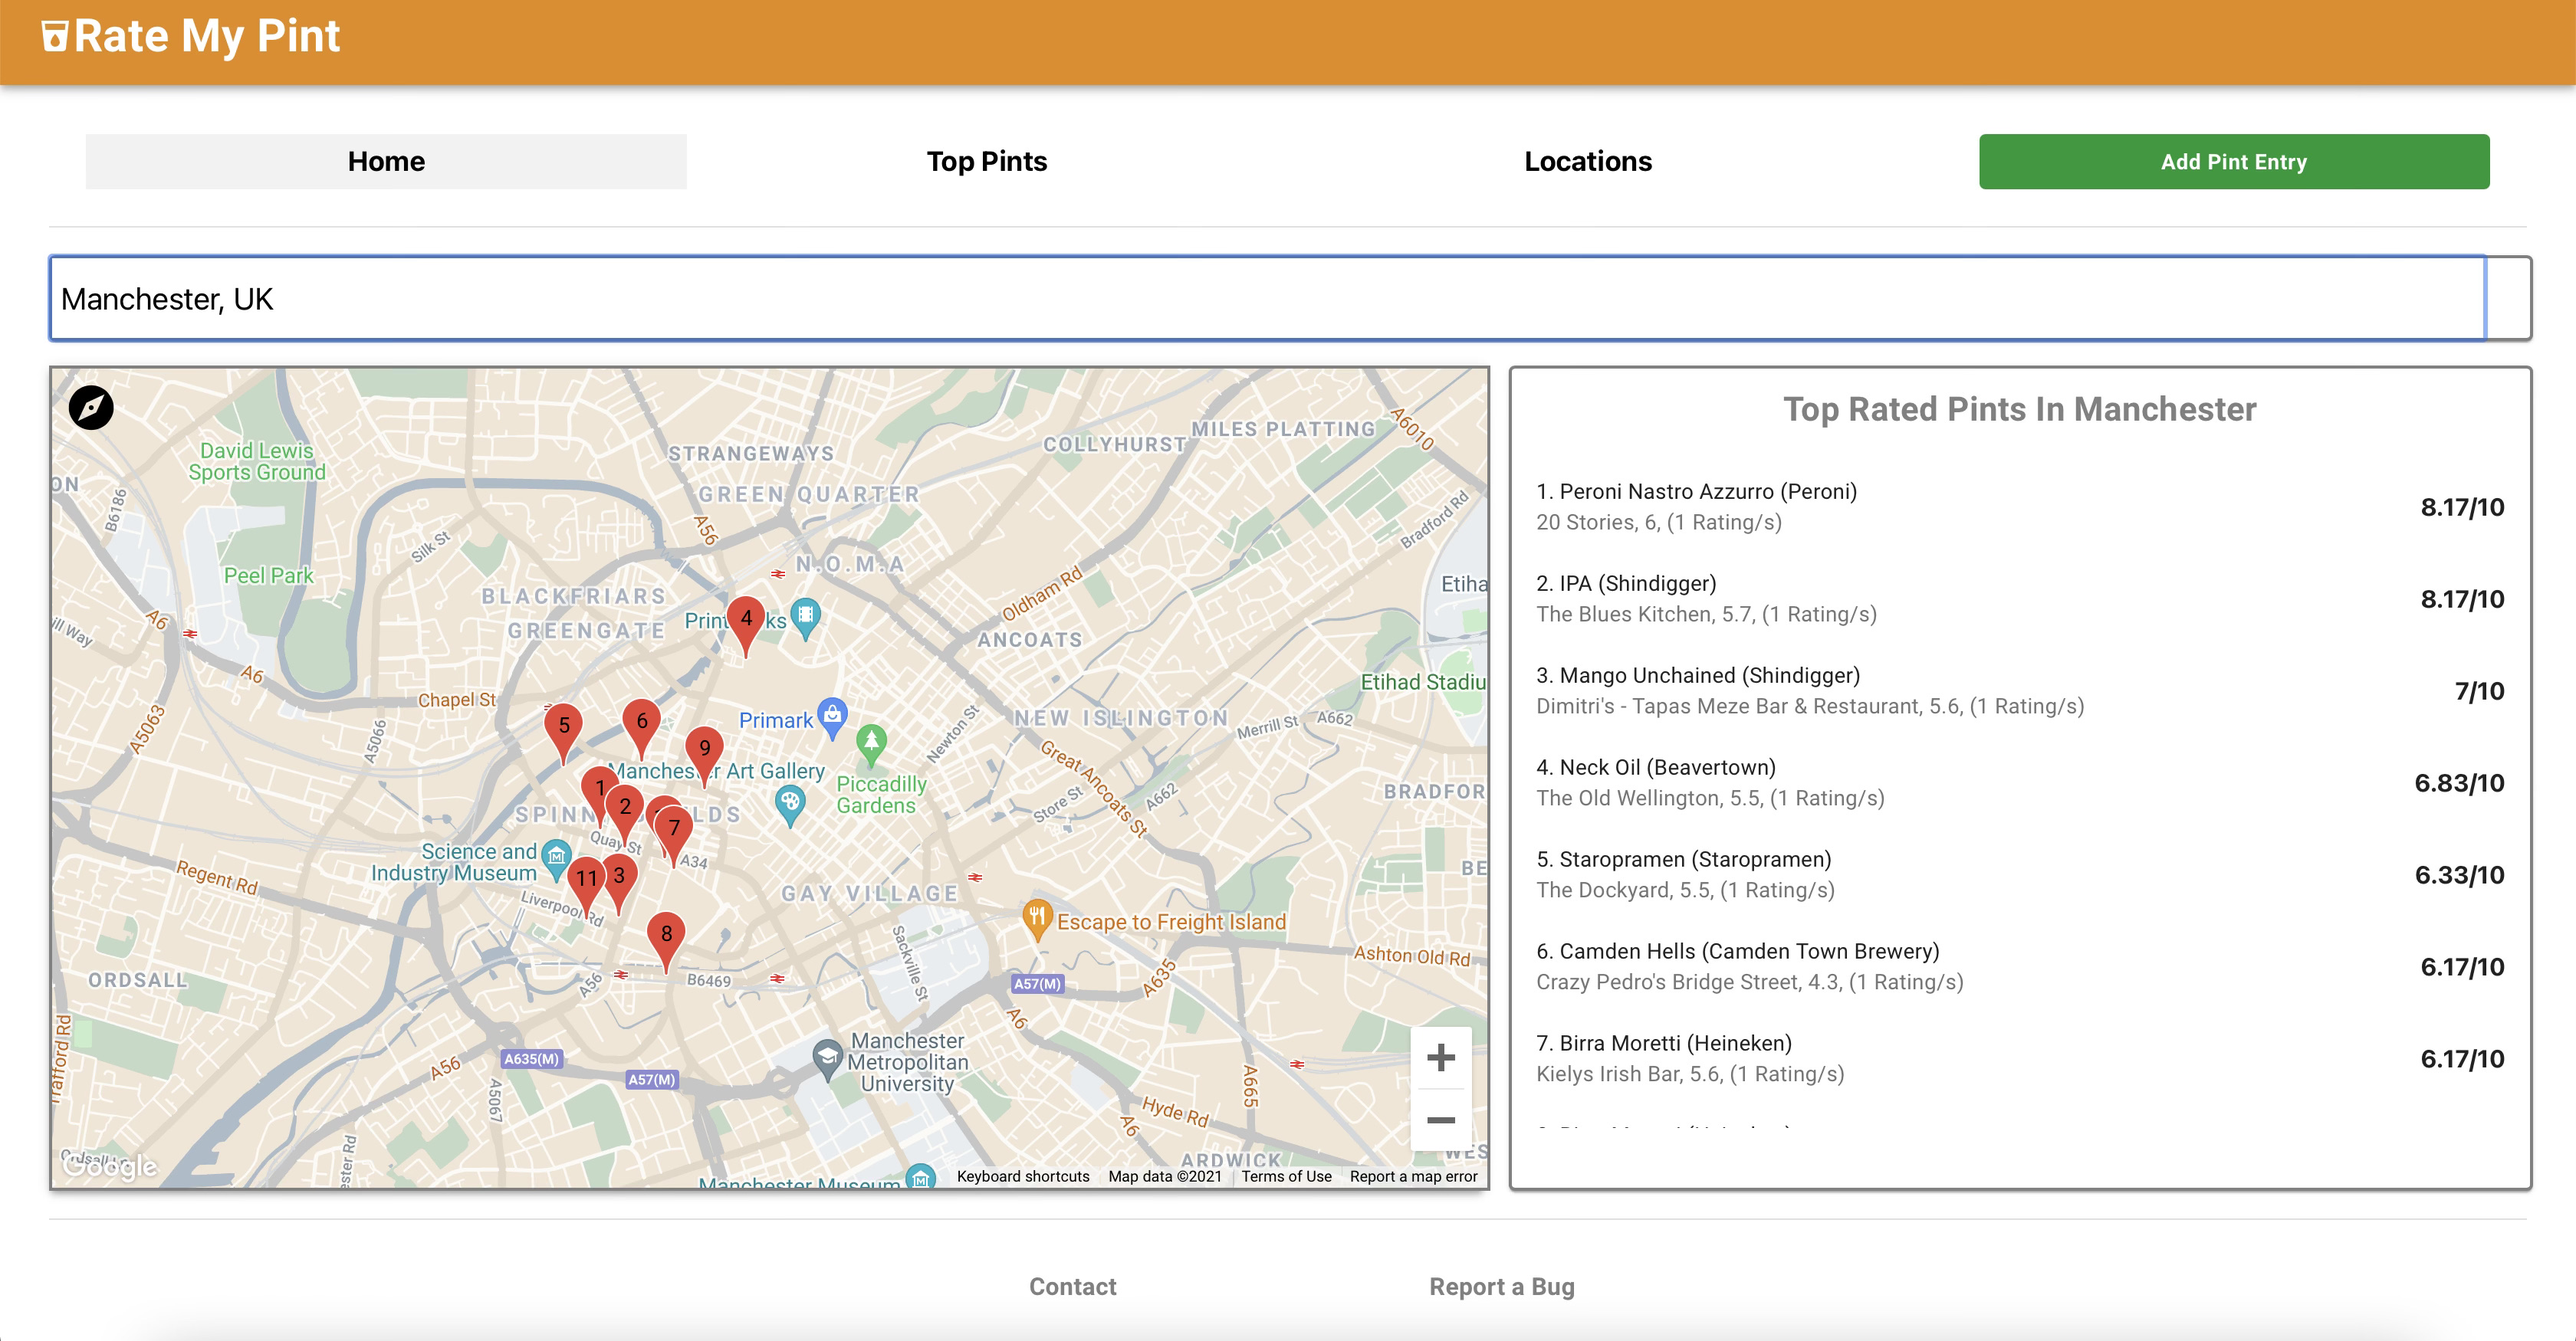
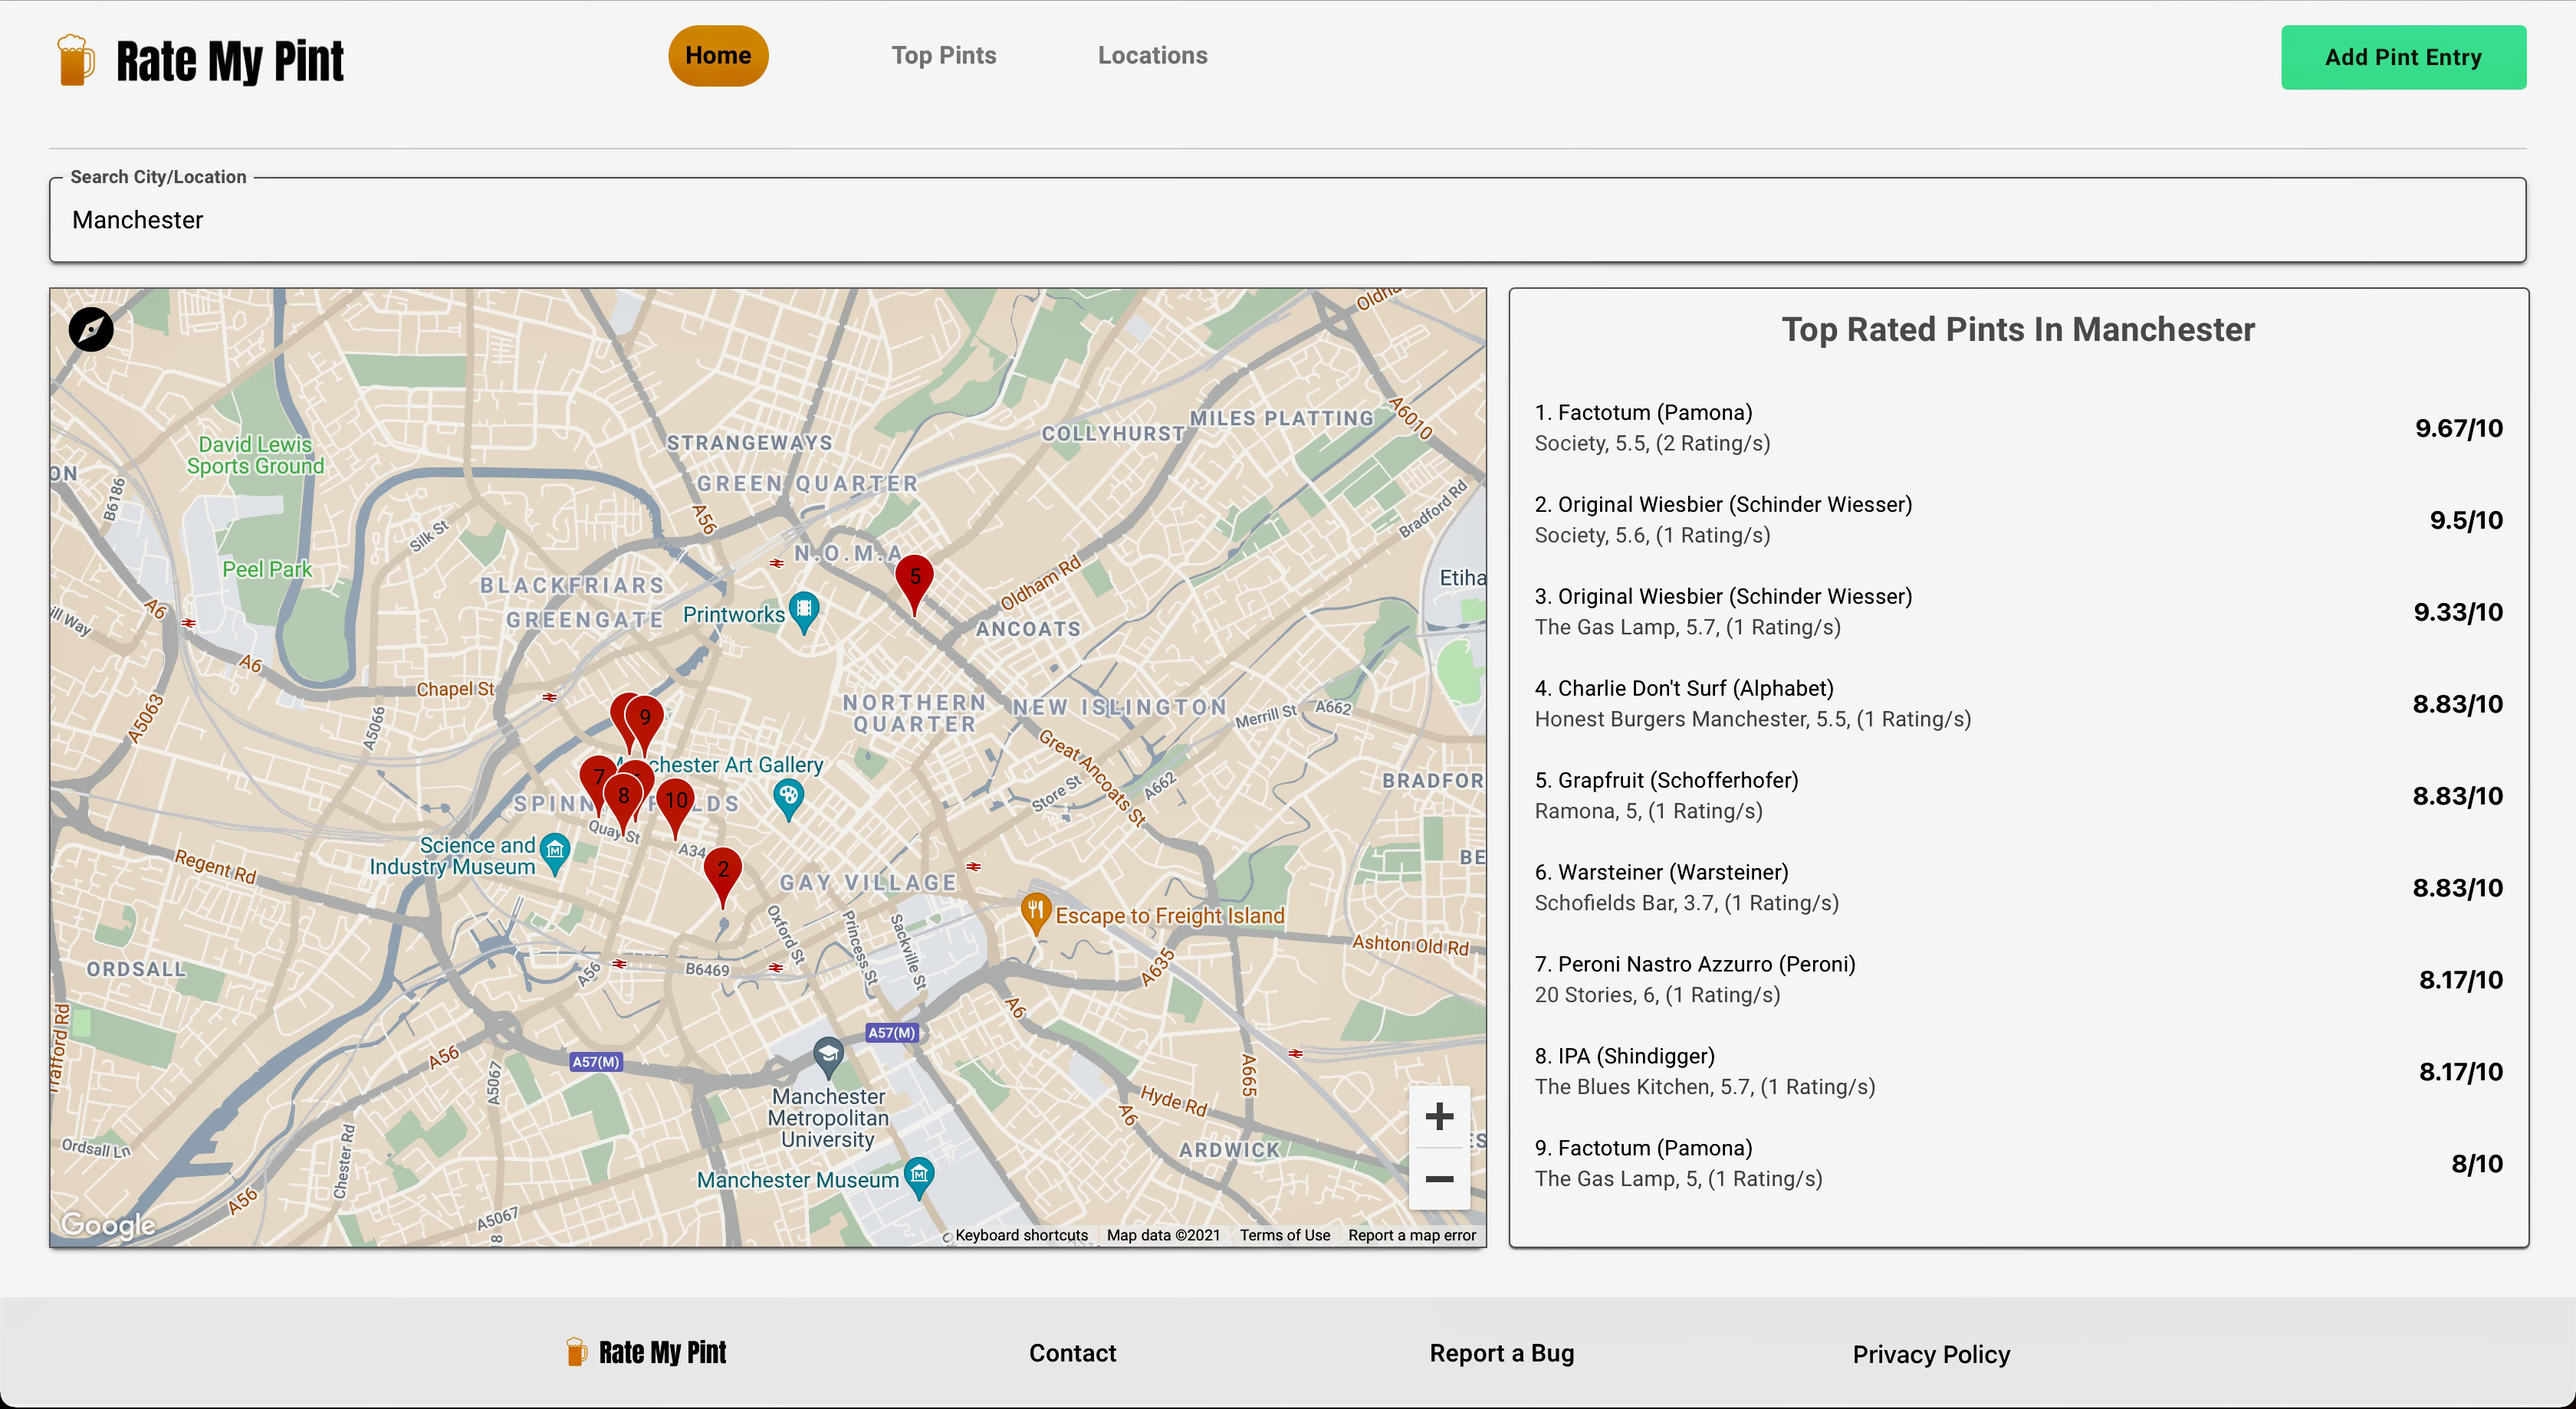
update sample image and readme due to design changes on the private production version

diff --git a/README.md b/README.md
@@ -9,11 +9,11 @@ Users can also see the top-rated pints that all users have submitted based on th
 
 The app is fully optimised for mobile and all other screen sizes, users can also submit Bug Reports and feedback using the link in the footer. 
 
-This code is a pre-deployment build of Rate My Pint. The production version uses PostgreSQL as its database which is hosted on AWS RDS. Both the backend and frontend are hosted on Heroku. 
+This code is a pre-deployment build of Rate My Pint. The production version has updated code and design but is private due to api keys, it also uses PostgreSQL as its database which is hosted on AWS RDS. Both the backend and frontend are hosted on Heroku.
 
 www.Ratemypint.co.uk
 
-Build with Django REST Framework, React,  Material-UI, Google Maps API, Google Places API, Heroku, AWS, PostgreSQL
+Build with Django REST Framework, React, Material-UI, Google Maps API, Google Places API, Heroku, AWS, PostgreSQL
 
 ## Home
 ![](/sampleimages/home.jpeg?raw=true "Home")
